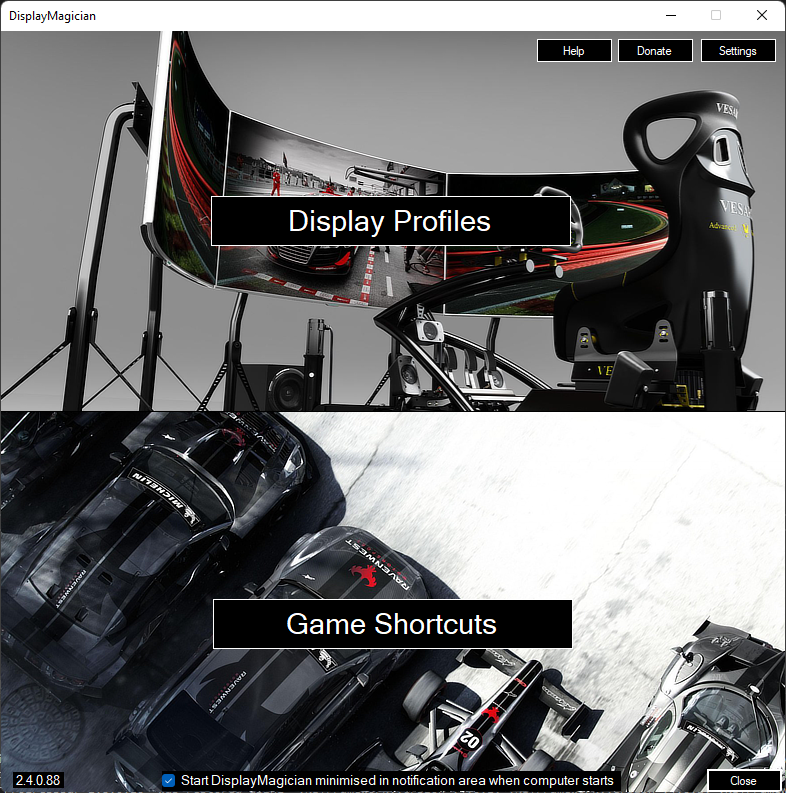
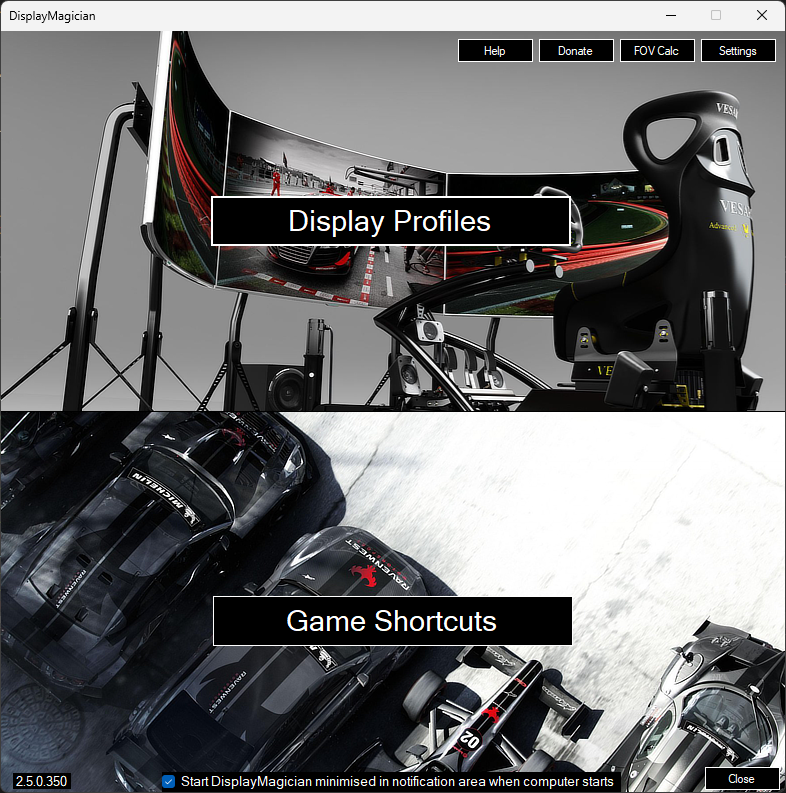
Updated README for v2.5.0.350 release
Updated README and captured new screenshots ready for the new release.

diff --git a/README.md b/README.md
@@ -46,19 +46,22 @@ DisplayMagician lets you set up the following information for each game or appli
   * Origin (Electronic Arts)
   * Epic Games 
   * GOG.com
+* Or select your Game from a list of installed Windows applications
+* Or even select a specific game executable to run
 * Optionally rollback to your previous Display profile once the game or application has closed.
 * Or maybe just create a Shortcut that permanently changes to a different Display Profile! The options are endless.
 * Also comes with a Shell Extension that allows you to change to a different Display Profile by right-clicking on the desktop background!
 * Supports NVIDIA Surround setups, AMD Eyefinity setups and standard Windows multi-desktop views.
 * Supports USB display devices, wireless display devices and works with SuperDisplay and Spacedesk (Android Tablets as a display)
-* Supports Windows DPI Scaling, setting Refresh Rates and HDR
+* Supports Windows DPI Scaling, rotated screens, setting Refresh Rates and HDR
 * Supports cloned displays, extended displays, NVIDIA Surround with additional displays, and nearly anything else you can throw at it!
-* Contains a Field-of-view (FOV) Calculator to help set games to make objects appear at normal size
+* It even contains a Field-of-view (FOV) Calculator to help set games to make objects appear at normal size
 * Allows you to easily chose installed applications from software installed via installers and UWP apps downloaded from the Microsoft Store.
 
 ## Planned features
 
-* Change UI from Winforms to .NET6 and MAUI
+* Migrate from .Net Framework 4.8 to .Net 7, and transition to new supported libraries
+* Create DisplayMagician v3 using MAUI rather than Winforms
 * Add Unit Tests!
 * Maybe add Intel Alchemist GPU spanned screen support when those cards are eventually released.
 
@@ -69,7 +72,7 @@ DisplayMagician lets you set up the following information for each game or appli
 * AMD Eyefinity support requires AMD Radeon™ Software Adrenalin 2020 Edition 21.2.1 or later to be installed
 
 ## Donation
-I am doing this work to scratch a programming itch I've had for a while. It's pretty fun to take something carefully crafted by another developer and extend it with a lot of other awesome features. That said, I'd appreciate a donation to help buy a coffee or two! 
+I am doing this work to scratch a programming itch I've had for a while. It's pretty fun to craft something that is useful to so many people. That said, I'd appreciate a donation to help buy a coffee or two! 
 
 <a href="https://www.buymeacoffee.com/displaymagician" target="_blank"><img src="https://cdn.buymeacoffee.com/buttons/default-orange.png" alt="Buy Me A Coffee" height="41" width="174"></a><a href="https://github.com/sponsors/terrymacdonald" target="_blank">  <img src="https://github.com/terrymacdonald/DisplayMagician/raw/main/READMEAssets/gh-sponsor.png" alt="Github Sponsor" height="41" width="122"></a>
 
@@ -89,6 +92,7 @@ I am doing this work to scratch a programming itch I've had for a while. It's pr
 <p align="center"><img src="READMEAssets/DisplayMagicianConfigureShortcut5.png"/></p>
 <p align="center"><img src="READMEAssets/DisplayMagicianDisplayProfileHotkey.png"/></p>
 <p align="center"><img src="READMEAssets/DisplayMagicianFovCalculator.png"/></p>
+<p align="center"><img src="READMEAssets/DisplayMagicianSettings.png"/></p>
 <p align="center"><img src="READMEAssets/DisplayMagicianShellExtension.png"/></p>
 
 
@@ -129,7 +133,7 @@ Have fun!
 
 ## License
 
-Copyright © Terry MacDonald 2020-2022
+Copyright © Terry MacDonald 2020-2023
 
 Original HelioDisplayManagement - copyright © Soroush Falahati 2017-2020
 
@@ -153,10 +157,17 @@ I’m so very thankful for the help of the following people, who make DisplayMag
 
 * Sean at SimCraft (Thank you so much for your generous donation!)
 * Domenic (Thanks for the solid month of troubleshooting help and the monthly sponsorship!)
-* RBZL (thanks for the monthly donation)
-* Frcooper (thanks for the monthly donation)
+* Frcooper (thanks for the monthly donations)
+* Miiinttt (thanks for the monthly donations)
 
 Also big thanks to:
+* Dmanzano1 (Thank you for your donation)
+* Yohan (Thank you for your donation)
+* Guennid (Thank you for your donation)
+* RBZL (thanks for the past monthly donations)
+* Davedontmind (Thank you for your donation)
+* Hmalatian (Thank you for your donation)
+* Nielssoeth (Thank you for your donation)
 * Markus Ewert 'dinex86' (Thanks for letting my use your FOV logic)
 * Dogy007 (Thanks for the sponsorship)
 * Ceramed (Thank you for your donation and your help troubleshooting SuperDisplay and SpaceDesk screens)
@@ -202,7 +213,6 @@ Also big thanks to:
 * Bossebossebosse (thanks for the donation)
 * Sk666 (thanks for the donation)
 * FormelLMS (thanks for the continued sponsoring and the testing help)
-* RBZL (thanks for the donation)
 * Neilperson (thanks for the cool idea)
 * DragRedSim (thanks for the bug report)
 * Original HelioDisplayManagement project created by the amazing Soroush Falahati
